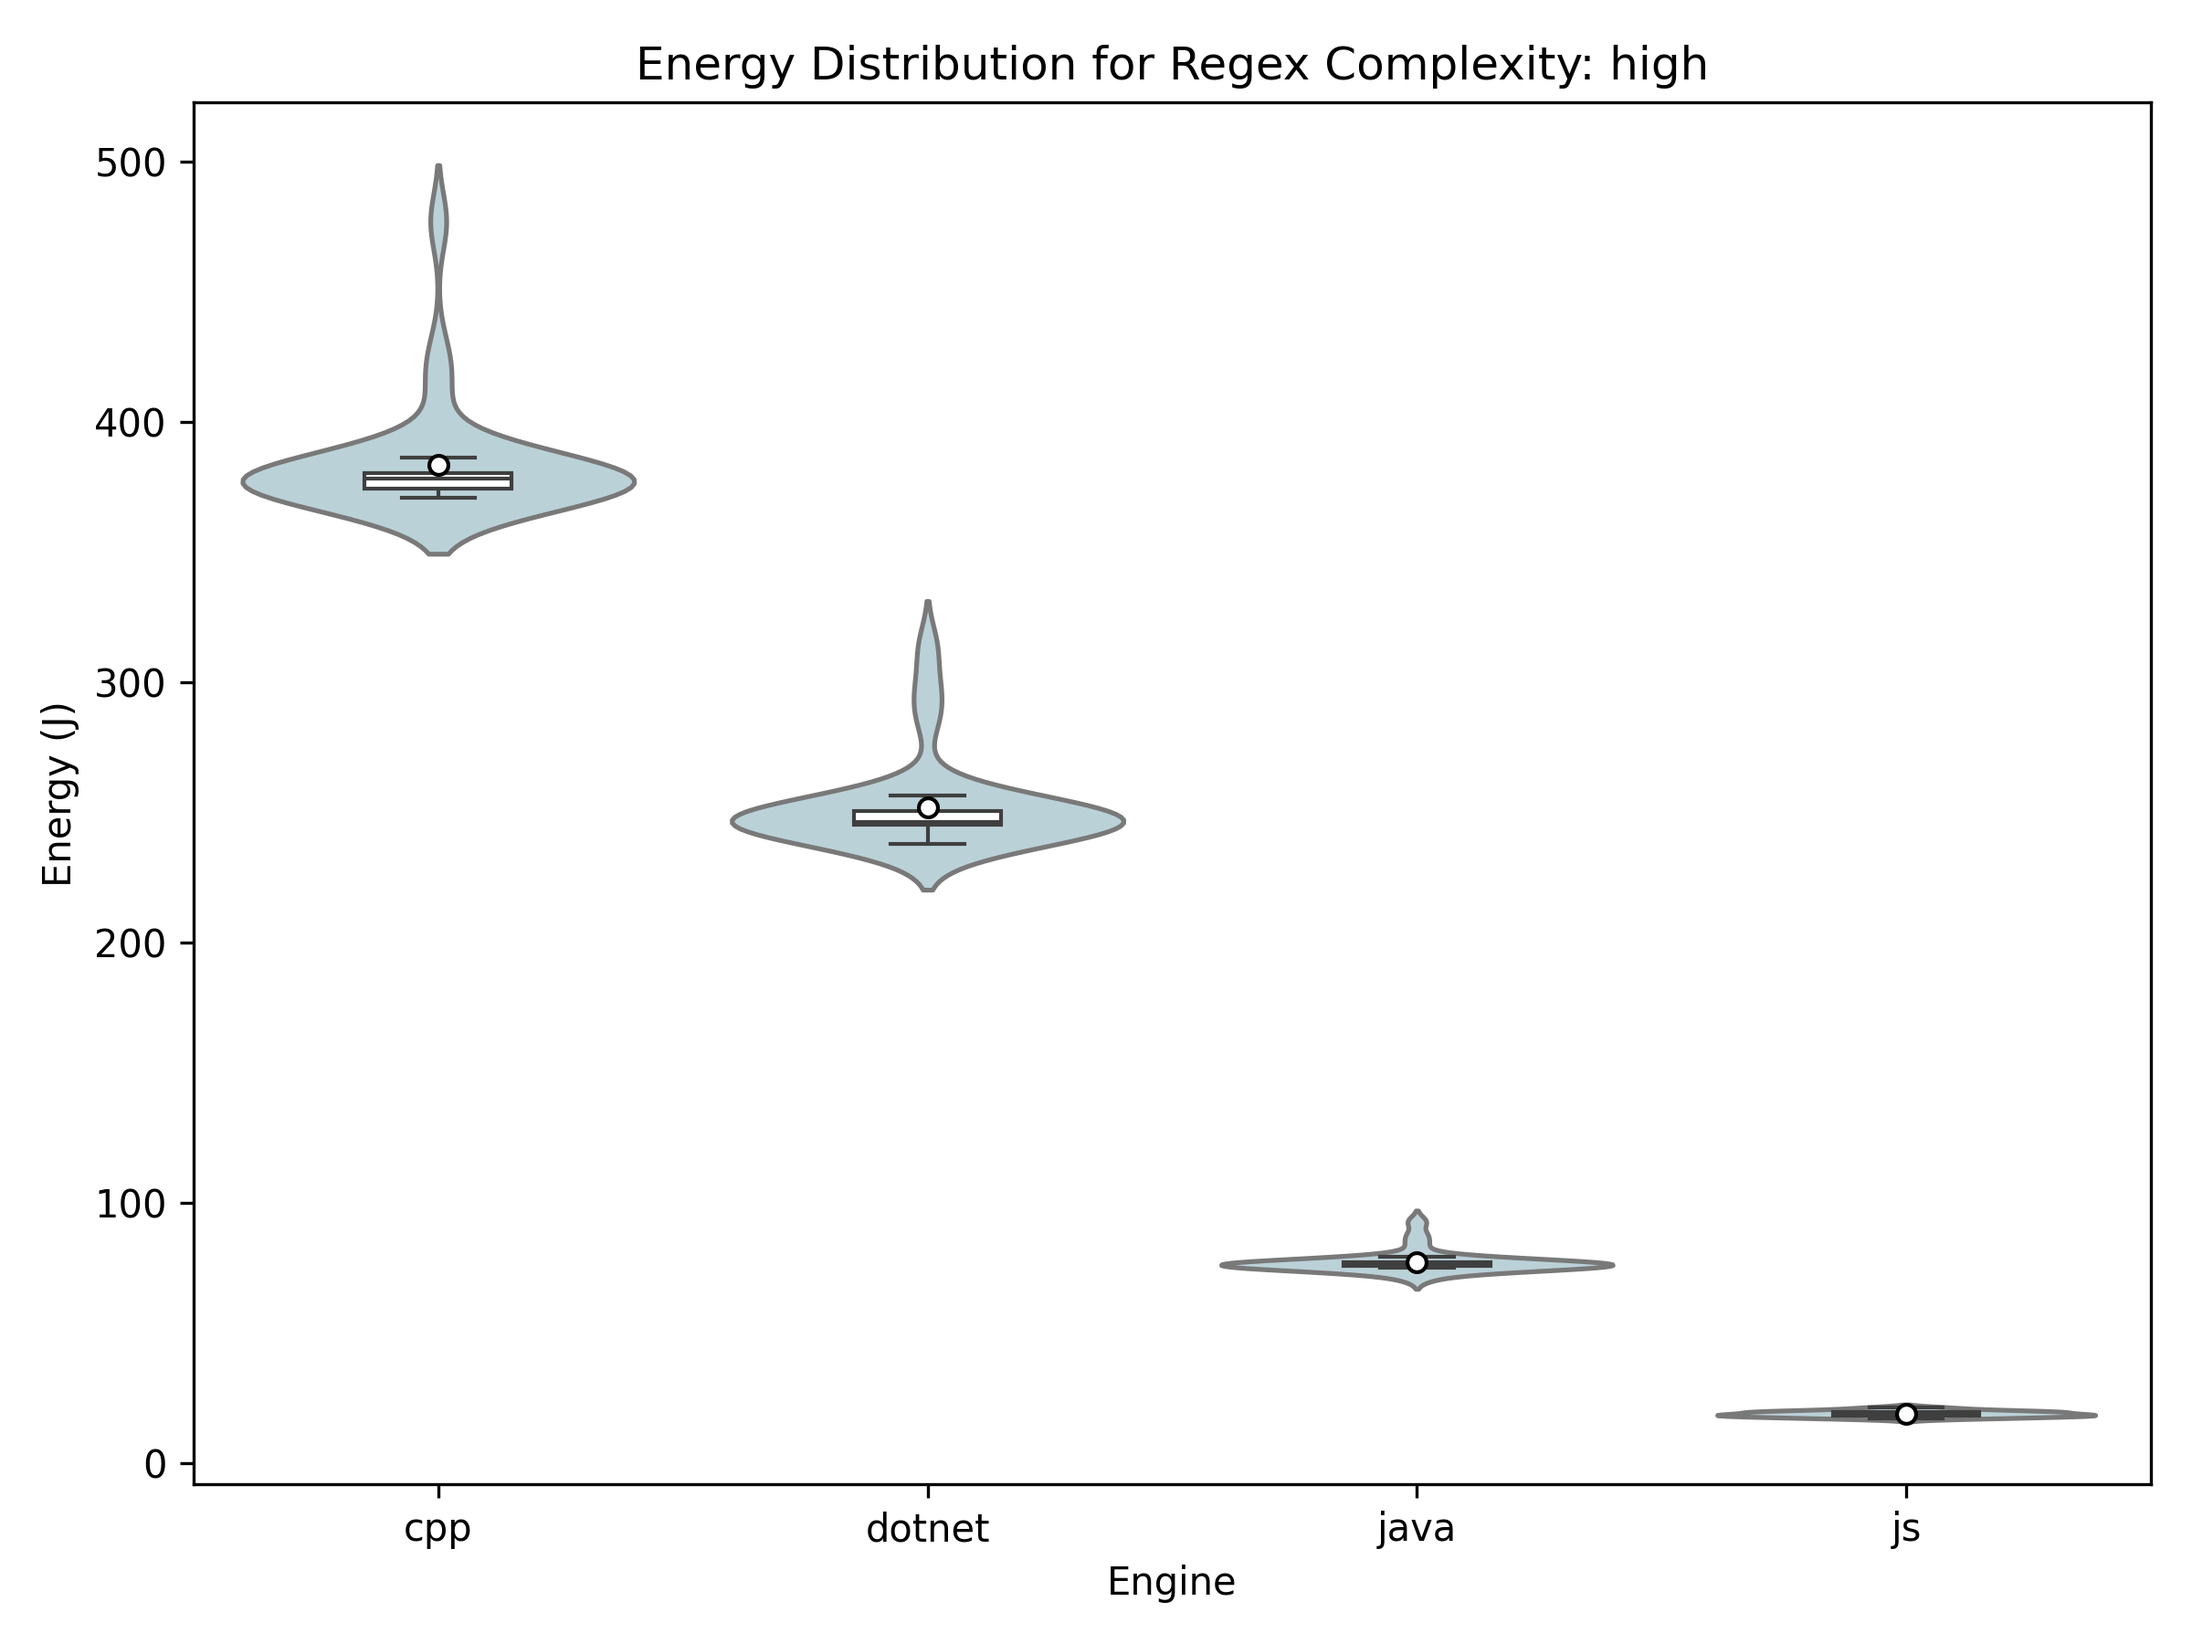
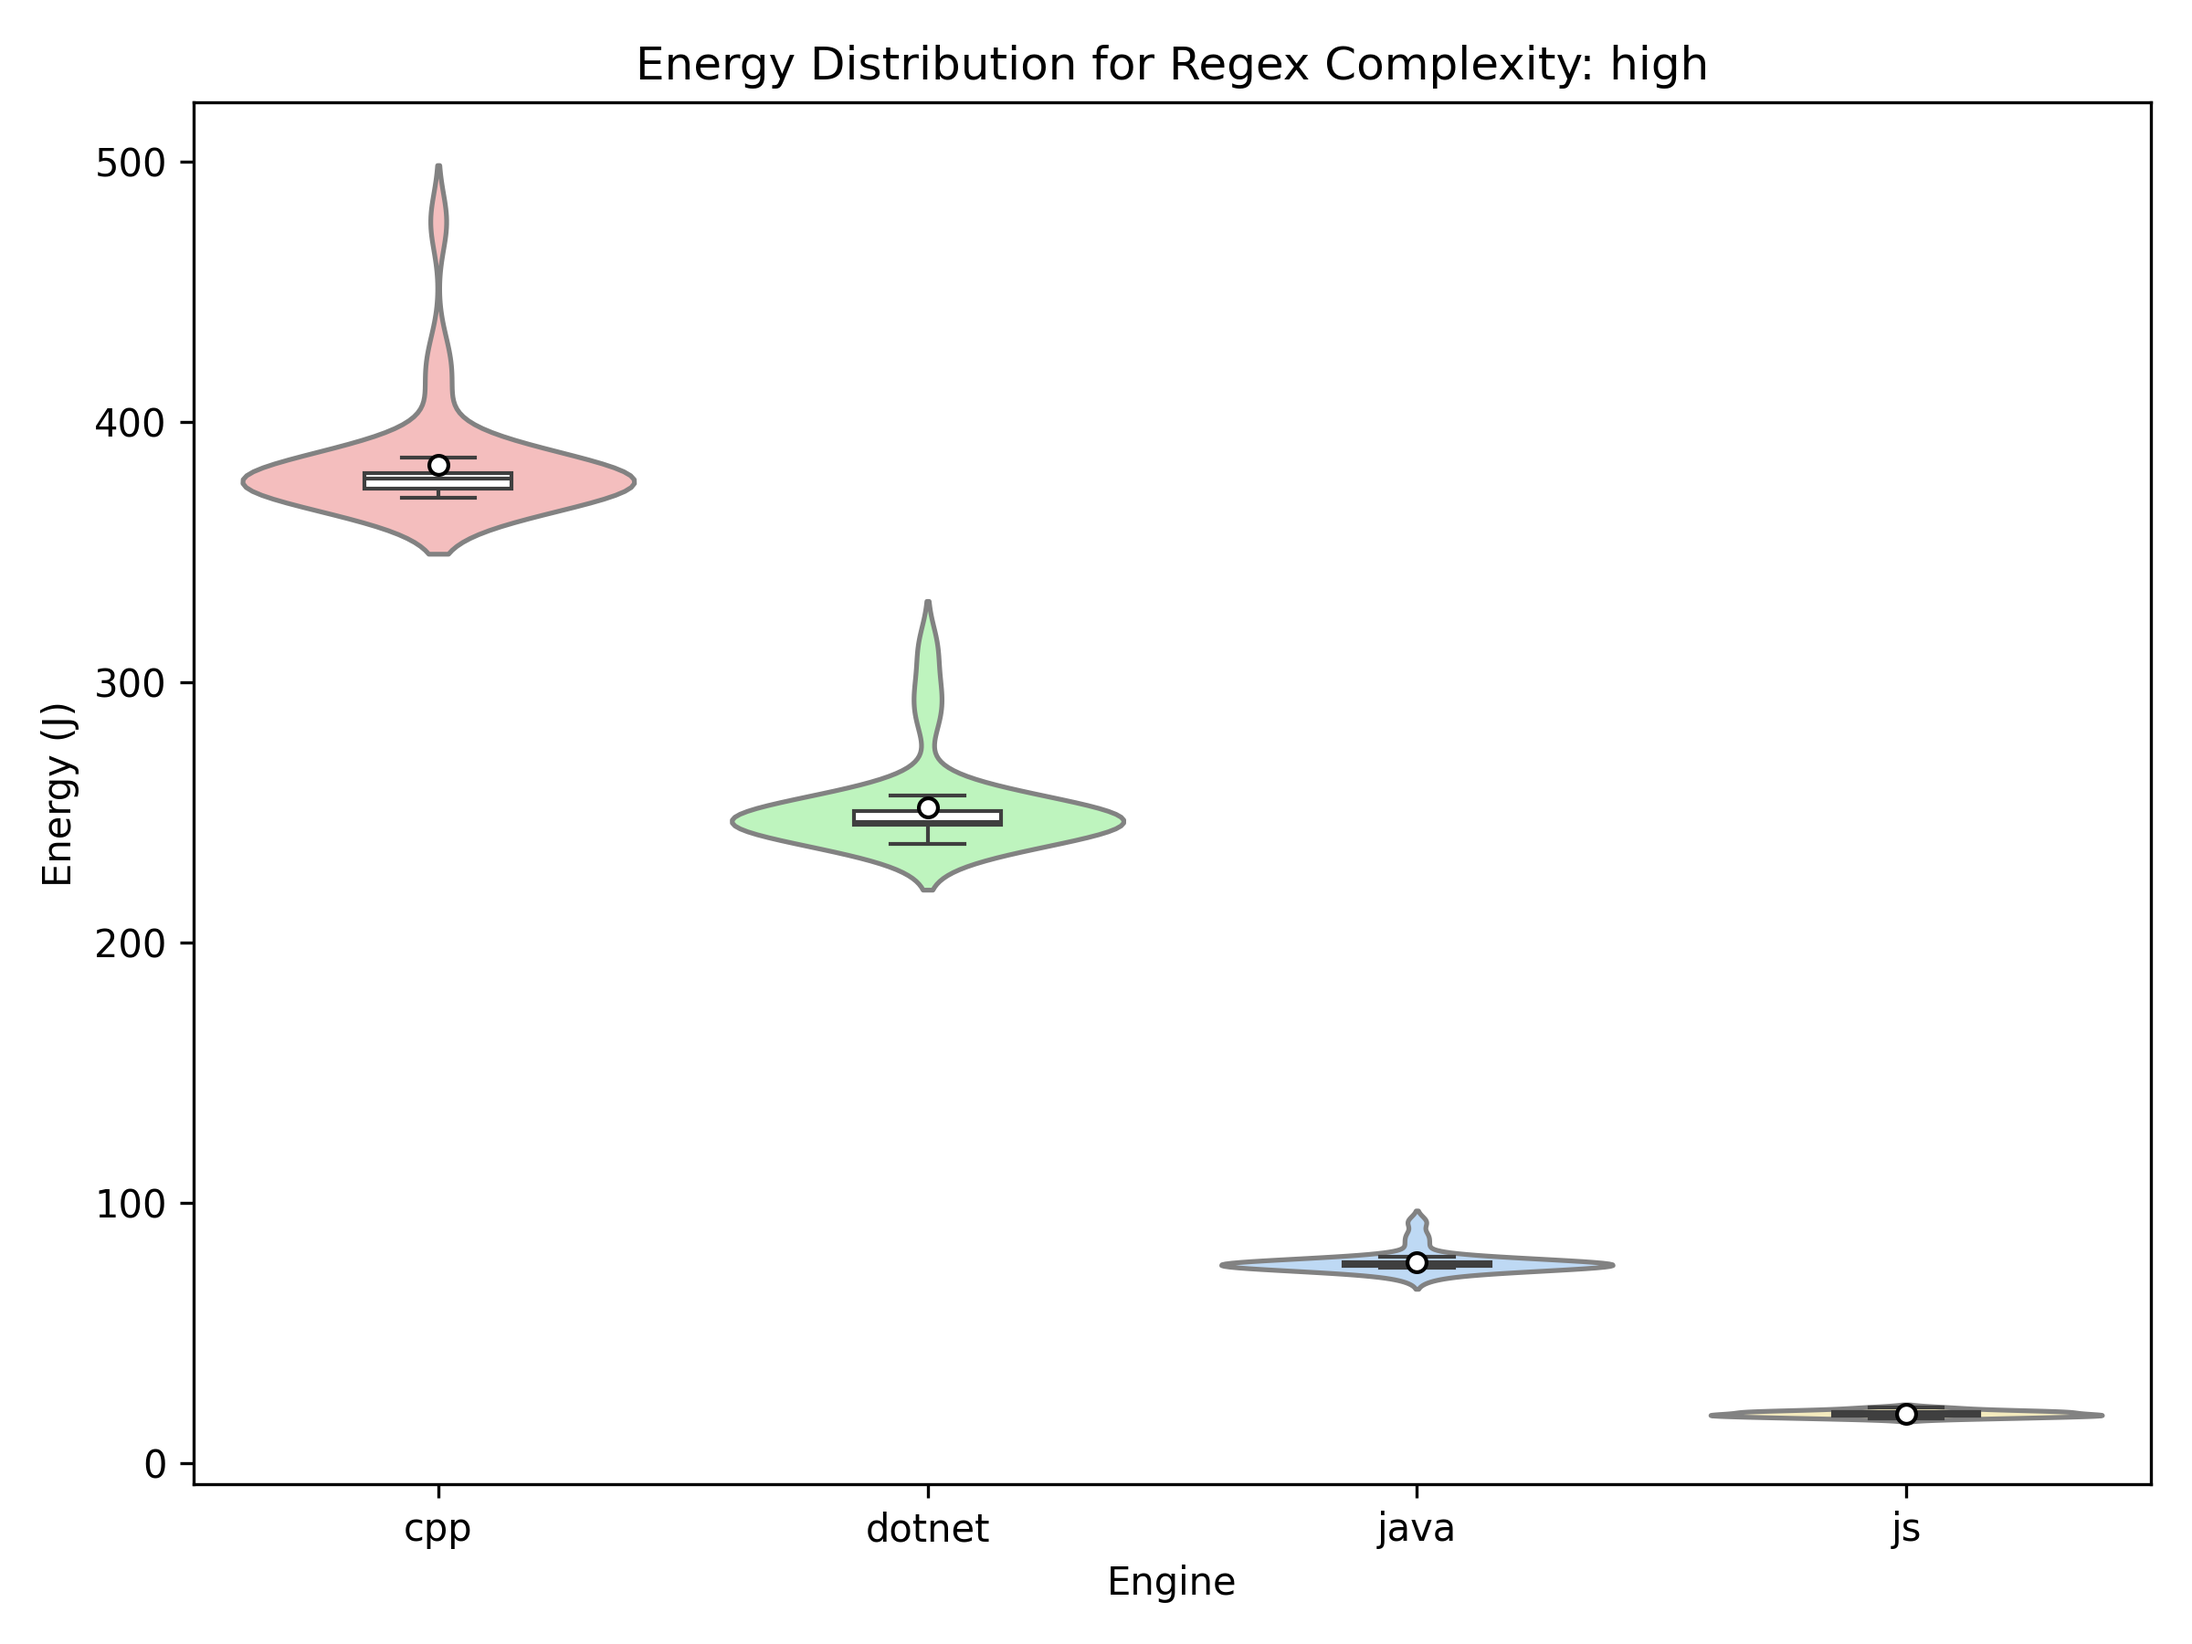
Assign custom colors per engine in plots

diff --git a/analysis/plot_generator.py b/analysis/plot_generator.py
@@ -50,6 +50,18 @@ class PlotGenerator:
         # Create the output directory if it does not exist
         os.makedirs(output_dir, exist_ok=True)
 
+        # Define custom colors for engines
+        palette = {
+            "red": "#FFB3B3",
+            "green": "#B3FFB3",
+            "blue": "#B3D9FF",
+            "yellow": "#FFF3B3"
+        }
+
+        # Get all unique engines and map engines to colors
+        unique_engines = self.df["engine"].unique()
+        engine_palette = {engine: list(palette.values())[i % len(palette)] for i, engine in enumerate(unique_engines)}
+
         # Get all unique complexities
         complexities = self.df["regex_complexity"].unique()
 
@@ -65,10 +77,12 @@ class PlotGenerator:
                 data=subset,
                 x="engine",
                 y=metric,
-                inner=None, # Turn off interior bars so they don't conflict with boxplot,
+                hue="engine",
+                palette=engine_palette,
+                inner=None,
                 density_norm="width",
-                color="lightblue",
-                saturation=0.5
+                saturation=0.7,
+                legend=False
             )
 
             # Overlay boxplot
